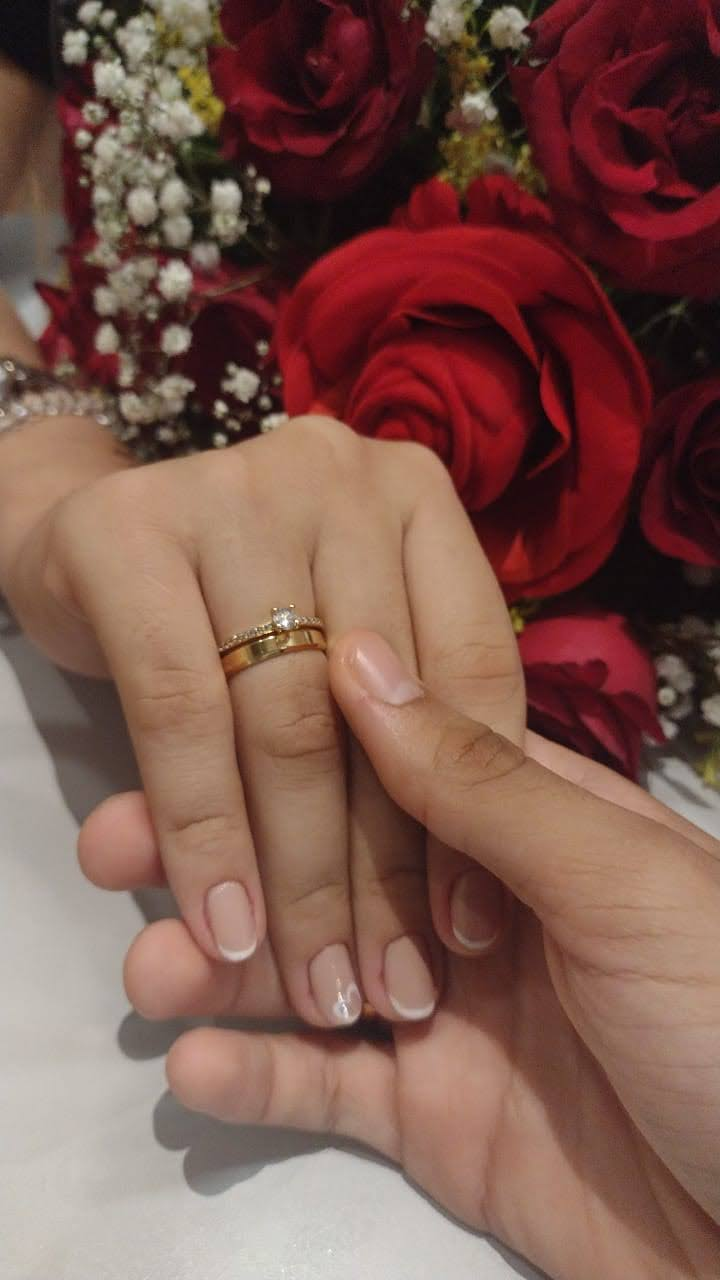
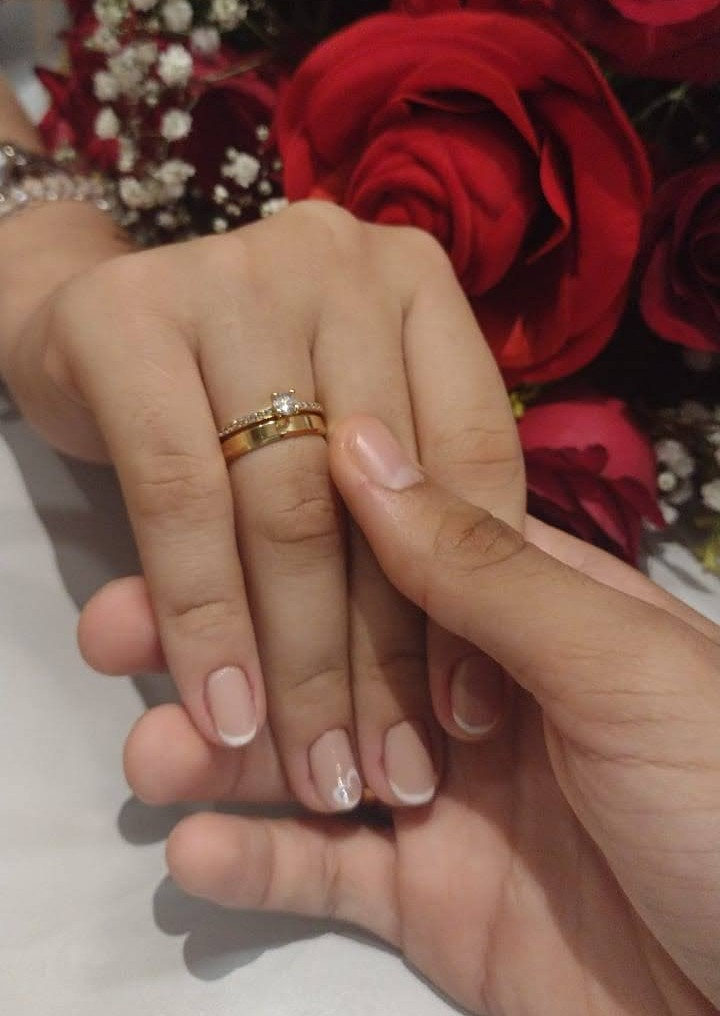
Atualiza textos e imagens nas páginas "Home", "Contato" e "Sobre". Modifica horários e descrições para refletir melhor os eventos. Remove arquivos de placeholder não utilizados e substitui por novas imagens. Melhora a narrativa na seção "Sobre" com novos textos e seções.

diff --git a/app/sobre/page.tsx b/app/sobre/page.tsx
@@ -3,7 +3,7 @@
 import Image from "next/image";
 import Link from "next/link";
 import { Button } from "@/components/ui/button";
-import { Heart, ArrowLeft, Calendar, MapPin, Menu, X } from "lucide-react";
+import { Heart, ArrowLeft, Calendar, MapPin, Menu, X, Gem } from "lucide-react";
 import { useState } from "react";
 
 export default function SobrePage() {
@@ -160,17 +160,14 @@ export default function SobrePage() {
                         <Calendar className="h-6 w-6 text-white" />
                       </div>
                       <span className="font-serif text-2xl text-terracotta-dark">
-                        2022
+                        2007
                       </span>
                     </div>
                     <h3 className="font-serif text-xl text-terracotta-dark mb-3">
                       O Primeiro Encontro
                     </h3>
                     <p className="text-gray-600 leading-relaxed">
-                      Nossa história começa aqui, duas crianças traquinas que só
-                      pensavam em se divertir e não faziam ideia do que o futuro
-                      lhes preparava, depois deste dias nunca mais nos virmos ou
-                      se quer conversamos até que...
+                      Nossa história começa aqui, duas crianças traquinas que só pensavam em se divertir e não faziam ideia do que o futuro lhes preparava. Depois daqueles dias, nunca mais nos vimos ou sequer conversamos, até que...
                     </p>
                   </div>
                 </div>
@@ -210,21 +207,19 @@ export default function SobrePage() {
                       Oficializando o Amor
                     </h3>
                     <p className="text-gray-600 leading-relaxed">
-                      Em 2022 nos encontramos, começamos a conversar e tivemos
-                      nosso primeiro encontro que por acaso foi no dia dos
-                      namorados kkkkk...
+                      Em 2022, nos encontramos, começamos a conversar e tivemos nosso primeiro encontro, que, por acaso, foi no Dia dos Namorados. Kkkk...
                     </p>
                   </div>
                 </div>
               </div>
 
-              {/* 2023 - Nosso primeiro trabalho */}
+              {/* 2023 - Início do Namoro */}
               <div className="grid md:grid-cols-2 gap-8 items-center">
                 <div className="order-2 md:order-1">
                   <div className="bg-white rounded-2xl p-8 shadow-lg border border-terracotta-light/20">
                     <div className="flex items-center space-x-3 mb-4">
                       <div className="w-12 h-12 bg-terracotta rounded-full flex items-center justify-center">
-                        <MapPin className="h-6 w-6 text-white" />
+                        <Heart className="h-6 w-6 text-white" />
                       </div>
                       <span className="font-serif text-2xl text-terracotta-dark">
                         2022
@@ -234,8 +229,7 @@ export default function SobrePage() {
                       Início do Namoro
                     </h3>
                     <p className="text-gray-600 leading-relaxed">
-                      Nossa história só tinha acabado de começar, começamos a
-                      namorar e no mesmo ano nos formamos juntos...
+                      E tudo ainda estava apenas no começo. Começamos a namorar e, no mesmo ano, nos formamos juntos.
                     </p>
                   </div>
                 </div>
@@ -250,8 +244,51 @@ export default function SobrePage() {
                 </div>
               </div>
 
+              {/* 2024 - Primeira Viagem */}
+              <div className="grid md:grid-cols-2 gap-8 items-center">
+                <div>
+                  <Image
+                    src="/foto-6.jpg?height=400&width=500"
+                    alt="Pedido de casamento - 2023"
+                    width={500}
+                    height={400}
+                    className="rounded-2xl shadow-xl hover:scale-105 transition-transform duration-700"
+                  />
+                </div>
+                <div>
+                  <div className="bg-white rounded-2xl p-8 shadow-lg border border-terracotta-light/20">
+                    <div className="flex items-center space-x-3 mb-4">
+                      <div className="w-12 h-12 bg-terracotta rounded-full flex items-center justify-center">
+                        <MapPin className="h-6 w-6  text-white" />
+                      </div>
+                      <span className="font-serif text-2xl">2023</span>
+                    </div>
+                    <h3 className="font-serif text-xl mb-3">Primeira Viagem</h3>
+                    <p className="leading-relaxed opacity-90">
+                      Em 2023, fizemos nossa primeira viagem em família, e com o tempo nosso amor só crescia cada vez mais...
+                    </p>
+                  </div>
+                </div>
+              </div>
+
               {/* 2024 - Pedido de Casamento */}
               <div className="grid md:grid-cols-2 gap-8 items-center">
+                <div>
+                  <div className="bg-white rounded-2xl p-8 shadow-lg border border-terracotta-light/20">
+                    <div className="flex items-center space-x-3 mb-4">
+                      <div className="w-12 h-12 bg-terracotta rounded-full flex items-center justify-center">
+                        <Heart className="h-6 w-6  text-white" />
+                      </div>
+                      <span className="font-serif text-2xl">2024</span>
+                    </div>
+                    <h3 className="font-serif text-xl mb-3">
+                      O Pedido Especial
+                    </h3>
+                    <p className="leading-relaxed opacity-90">
+                      Em 2024, aconteceu a realização de um dos nossos maiores sonhos: o tão sonhado pedido de casamento. Nossos pais nos abençoaram e vibraram conosco.
+                    </p>
+                  </div>
+                </div>
                 <div>
                   <Image
                     src="/foto-4.jpg?height=400&width=500"
@@ -261,46 +298,10 @@ export default function SobrePage() {
                     className="rounded-2xl shadow-xl hover:scale-105 transition-transform duration-700"
                   />
                 </div>
-                <div>
-                  <div className="bg-terracotta text-white rounded-2xl p-8 shadow-lg">
-                    <div className="flex items-center space-x-3 mb-4">
-                      <div className="w-12 h-12 bg-white rounded-full flex items-center justify-center">
-                        <Heart className="h-6 w-6 text-terracotta" />
-                      </div>
-                      <span className="font-serif text-2xl">2024</span>
-                    </div>
-                    <h3 className="font-serif text-xl mb-3">
-                      O Pedido Especial
-                    </h3>
-                    <p className="leading-relaxed opacity-90">
-                      Em 2024 aconteceu a realização de um dos nossos maiores
-                      sonhos o tão sonhado pedido de casamento, nossos pais nos
-                      abençoaram e vibraram conosco...
-                    </p>
-                  </div>
-                </div>
               </div>
 
               {/* Nosso noivado */}
               <div className="grid md:grid-cols-2 gap-8 items-center">
-              <div>
-                  <div className="bg-terracotta text-white rounded-2xl p-8 shadow-lg">
-                    <div className="flex items-center space-x-3 mb-4">
-                      <div className="w-12 h-12 bg-white rounded-full flex items-center justify-center">
-                        <Heart className="h-6 w-6 text-terracotta" />
-                      </div>
-                      <span className="font-serif text-2xl">2024</span>
-                    </div>
-                    <h3 className="font-serif text-xl mb-3">
-                      Nosso Noivado
-                    </h3>
-                    <p className="leading-relaxed opacity-90">
-                      Em 2024 aconteceu a realização de um dos nossos maiores
-                      sonhos o tão sonhado pedido de casamento, nossos pais nos
-                      abençoaram e vibraram conosco...
-                    </p>
-                  </div>
-                </div>
                 <div>
                   <Image
                     src="/foto-5.jpg?height=400&width=500"
@@ -310,7 +311,47 @@ export default function SobrePage() {
                     className="rounded-2xl shadow-xl hover:scale-105 transition-transform duration-700"
                   />
                 </div>
-                
+                <div>
+                  <div className="bg-white rounded-2xl p-8 shadow-lg border border-terracotta-light/20">
+                    <div className="flex items-center space-x-3 mb-4">
+                      <div className="w-12 h-12 bg-terracotta rounded-full flex items-center justify-center">
+                        <Gem className="h-6 w-6  text-white" />
+                      </div>
+                      <span className="font-serif text-2xl">2024</span>
+                    </div>
+                    <h3 className="font-serif text-xl mb-3">Nosso Noivado</h3>
+                    <p className="leading-relaxed opacity-90">
+                      Em Setembro de 2024, realizamos o nosso tão sonhado noivado, onde apresentamos este momento ao Senhor, e Ele planejou tudo.
+                    </p>
+                  </div>
+                </div>
+              </div>
+
+              {/* A espera do Grande Dia */}
+              <div className="grid md:grid-cols-2 gap-8 items-center">
+                <div>
+                  <div className="bg-terracotta text-white rounded-2xl p-8 shadow-lg">
+                    <div className="flex items-center space-x-3 mb-4">
+                      <div className="w-12 h-12 bg-white rounded-full flex items-center justify-center">
+                        <Heart className="h-6 w-6 text-terracotta" />
+                      </div>
+                      <span className="font-serif text-2xl">2025</span>
+                    </div>
+                    <h3 className="font-serif text-xl mb-3">A espera do Grande Dia</h3>
+                    <p className="leading-relaxed opacity-90">
+                      Com a bênção de Deus e de nossos pais, estamos à espera deste dia tão sonhado que é o nosso casamento. Pedimos que estejam orando por nós, para que o Senhor possa estar presente neste dia e que as Suas bênçãos recaiam sobre nossas vidas. Te esperamos lá para nos alegrarmos juntos!
+                    </p>
+                  </div>
+                </div>
+                <div>
+                  <Image
+                    src="/Davi&Raquel-18.jpg?height=400&width=500"
+                    alt="Pedido de casamento - 2024"
+                    width={500}
+                    height={400}
+                    className="rounded-2xl shadow-xl hover:scale-105 transition-transform duration-700"
+                  />
+                </div>
               </div>
             </div>
           </div>
@@ -342,10 +383,10 @@ export default function SobrePage() {
                 </h3>
                 <ul className="text-gray-600 space-y-2">
                   <li>
-                    <strong>15:00</strong> - Chegada dos convidados
+                    <strong>14:30</strong> - Chegada dos convidados
                   </li>
                   <li>
-                    <strong>15:30</strong> - Cerimônia
+                    <strong>15:00</strong> - Começo da Cerimônia
                   </li>
                 </ul>
               </div>

diff --git a/app/page.tsx b/app/page.tsx
@@ -148,7 +148,7 @@ export default function HomePage() {
                 <div className="flex items-center justify-center lg:justify-start space-x-3">
                   <Clock className="h-4 w-4 sm:h-5 sm:w-5 text-terracotta flex-shrink-0" />
                   <span className="text-sm sm:text-base text-terracotta-dark">
-                    15:00 - Cerimônia
+                    15:00 - Começo da Cerimônia
                   </span>
                 </div>
                 <div className="flex items-center justify-center lg:justify-start space-x-3">
@@ -179,7 +179,7 @@ export default function HomePage() {
             <div className="relative order-1 lg:order-2">
               <div className="relative overflow-hidden rounded-xl sm:rounded-2xl shadow-xl sm:shadow-2xl">
                 <Image
-                  src="/placeholder.svg?height=600&width=500"
+                  src="/Davi&Raquel-10.jpg?height=600&width=500"
                   alt="Ana e Carlos - Foto do noivado"
                   width={500}
                   height={600}
@@ -214,7 +214,7 @@ export default function HomePage() {
                   <Heart className="h-6 w-6 sm:h-8 sm:w-8 text-terracotta" />
                 </div>
                 <h3 className="font-serif text-xl sm:text-2xl text-terracotta-dark mb-3 sm:mb-4">
-                  Cerimônia
+                  Começo da Cerimônia
                 </h3>
                 <p className="text-terracotta mb-3 sm:mb-4">15:00</p>
                 <p className="text-gray-600 text-sm sm:text-base">
@@ -293,7 +293,7 @@ export default function HomePage() {
           <div className="grid lg:grid-cols-2 gap-8 lg:gap-12 items-center">
             <div className="relative order-2 lg:order-1">
               <Image
-                src="/placeholder.svg?height=500&width=600"
+                src="/Davi&Raquel-26.jpg?height=500&width=600"
                 alt="Ana e Carlos - Momento especial"
                 width={600}
                 height={500}
@@ -306,16 +306,18 @@ export default function HomePage() {
                 Nossa História
               </h2>
               <p className="text-terracotta text-base sm:text-lg mb-4 sm:mb-6 leading-relaxed">
-                Ainda no cólegio, perto do término do ensino médio, derrepente
-                nos encontramos e nos reconhecemos, pois ainda bebês já tinhamos
-                uma história juntos. Desde então, nossa conexão foi instantânea
-                e especial.
+                Duas pessoas com um só propósito, dois mundos totalmente diferentes que se unem em uma só missão. Deus abençoou esta união e se fará presente em cada detalhe desta missão. Que este amor seja fortalecido por gerações.
+              </p>
+              <p className="text-terracotta text-base sm:text-lg mb-4 sm:mb-6 leading-relaxed">
+                Eclesiastes 4:12 – "Um homem sozinho pode ser vencido, mas dois conseguem defender-se. Um cordão de três dobras não se rompe com facilidade."
               </p>
               <p className="text-gray-600 mb-6 sm:mb-8 leading-relaxed text-sm sm:text-base">
+  
                 Decidimos oficializar nosso amor e queremos celebrar este
                 momento especial com as pessoas que mais amamos. Sua presença
                 tornará nosso dia ainda mais especial!
               </p>
+              
               <Button
                 asChild
                 className="bg-terracotta hover:bg-terracotta-dark text-white px-6 sm:px-8 py-2 sm:py-3 text-sm sm:text-base"

diff --git a/app/contato/page.tsx b/app/contato/page.tsx
@@ -406,7 +406,7 @@ export default function ContatoPage() {
                 Ainda não confirmou sua presença?
               </h2>
               <p className="text-terracotta mb-6">
-                Não esqueça de confirmar sua presença até 1º de junho. Sua
+                Não esqueça de confirmar sua presença até 15 de Agosto. Sua
                 confirmação nos ajuda muito no planejamento!
               </p>
               <Button
